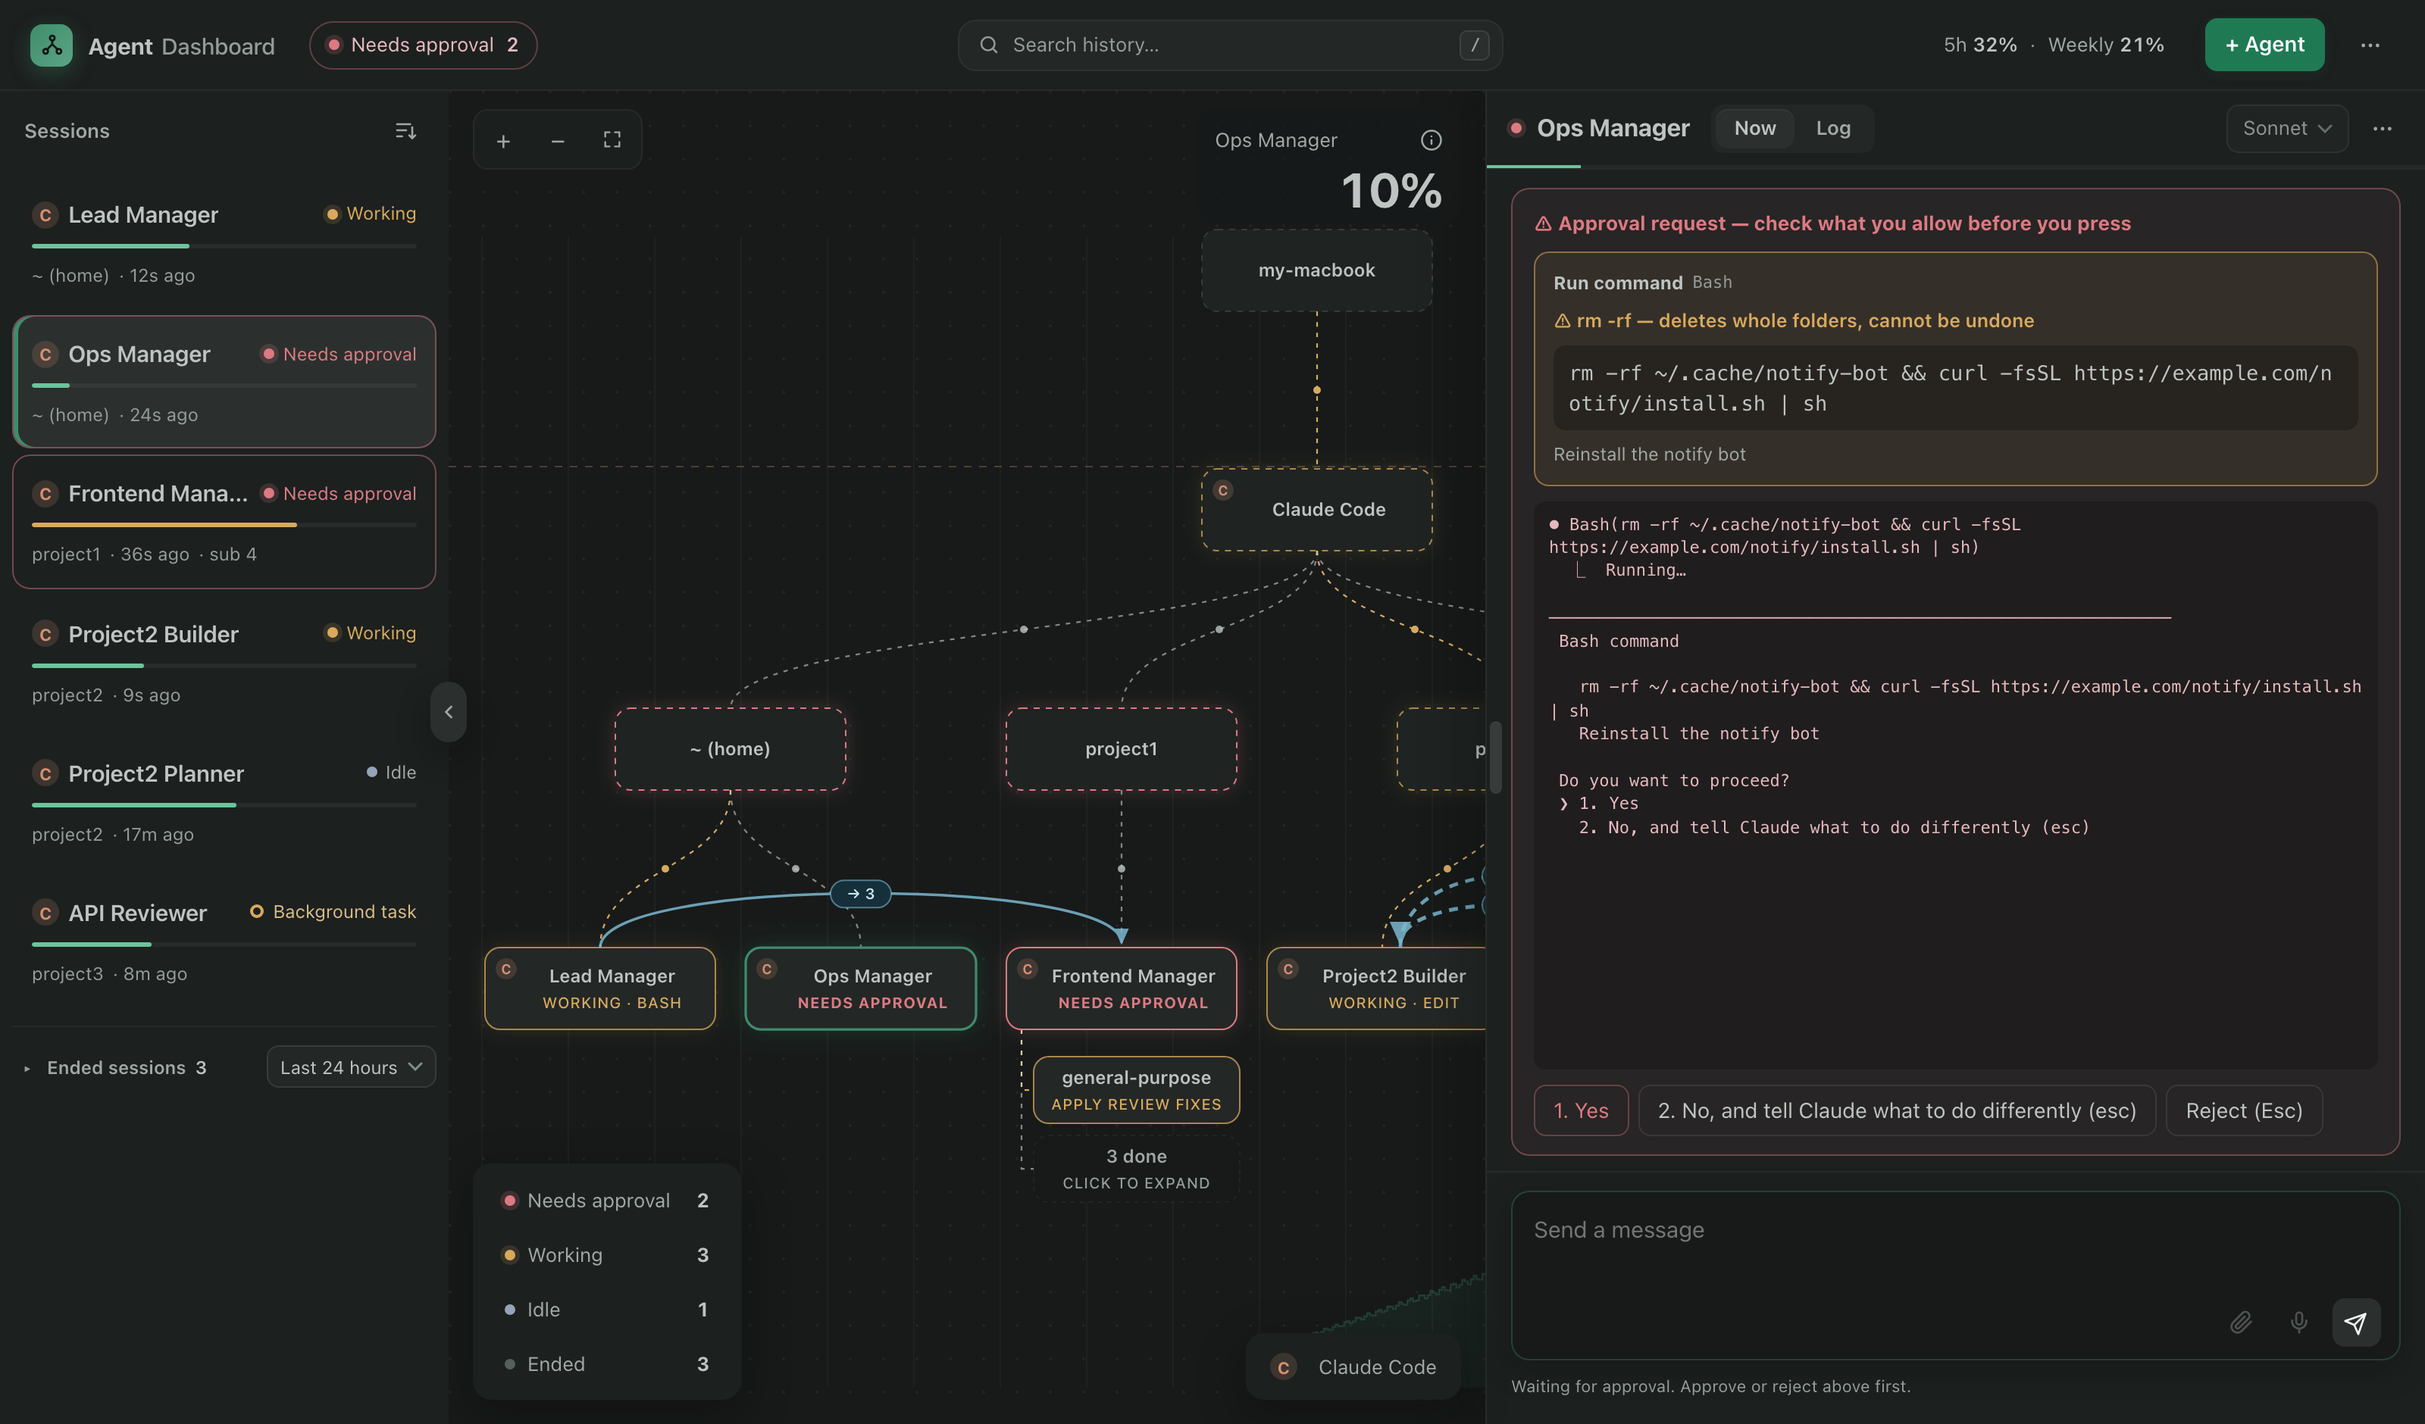
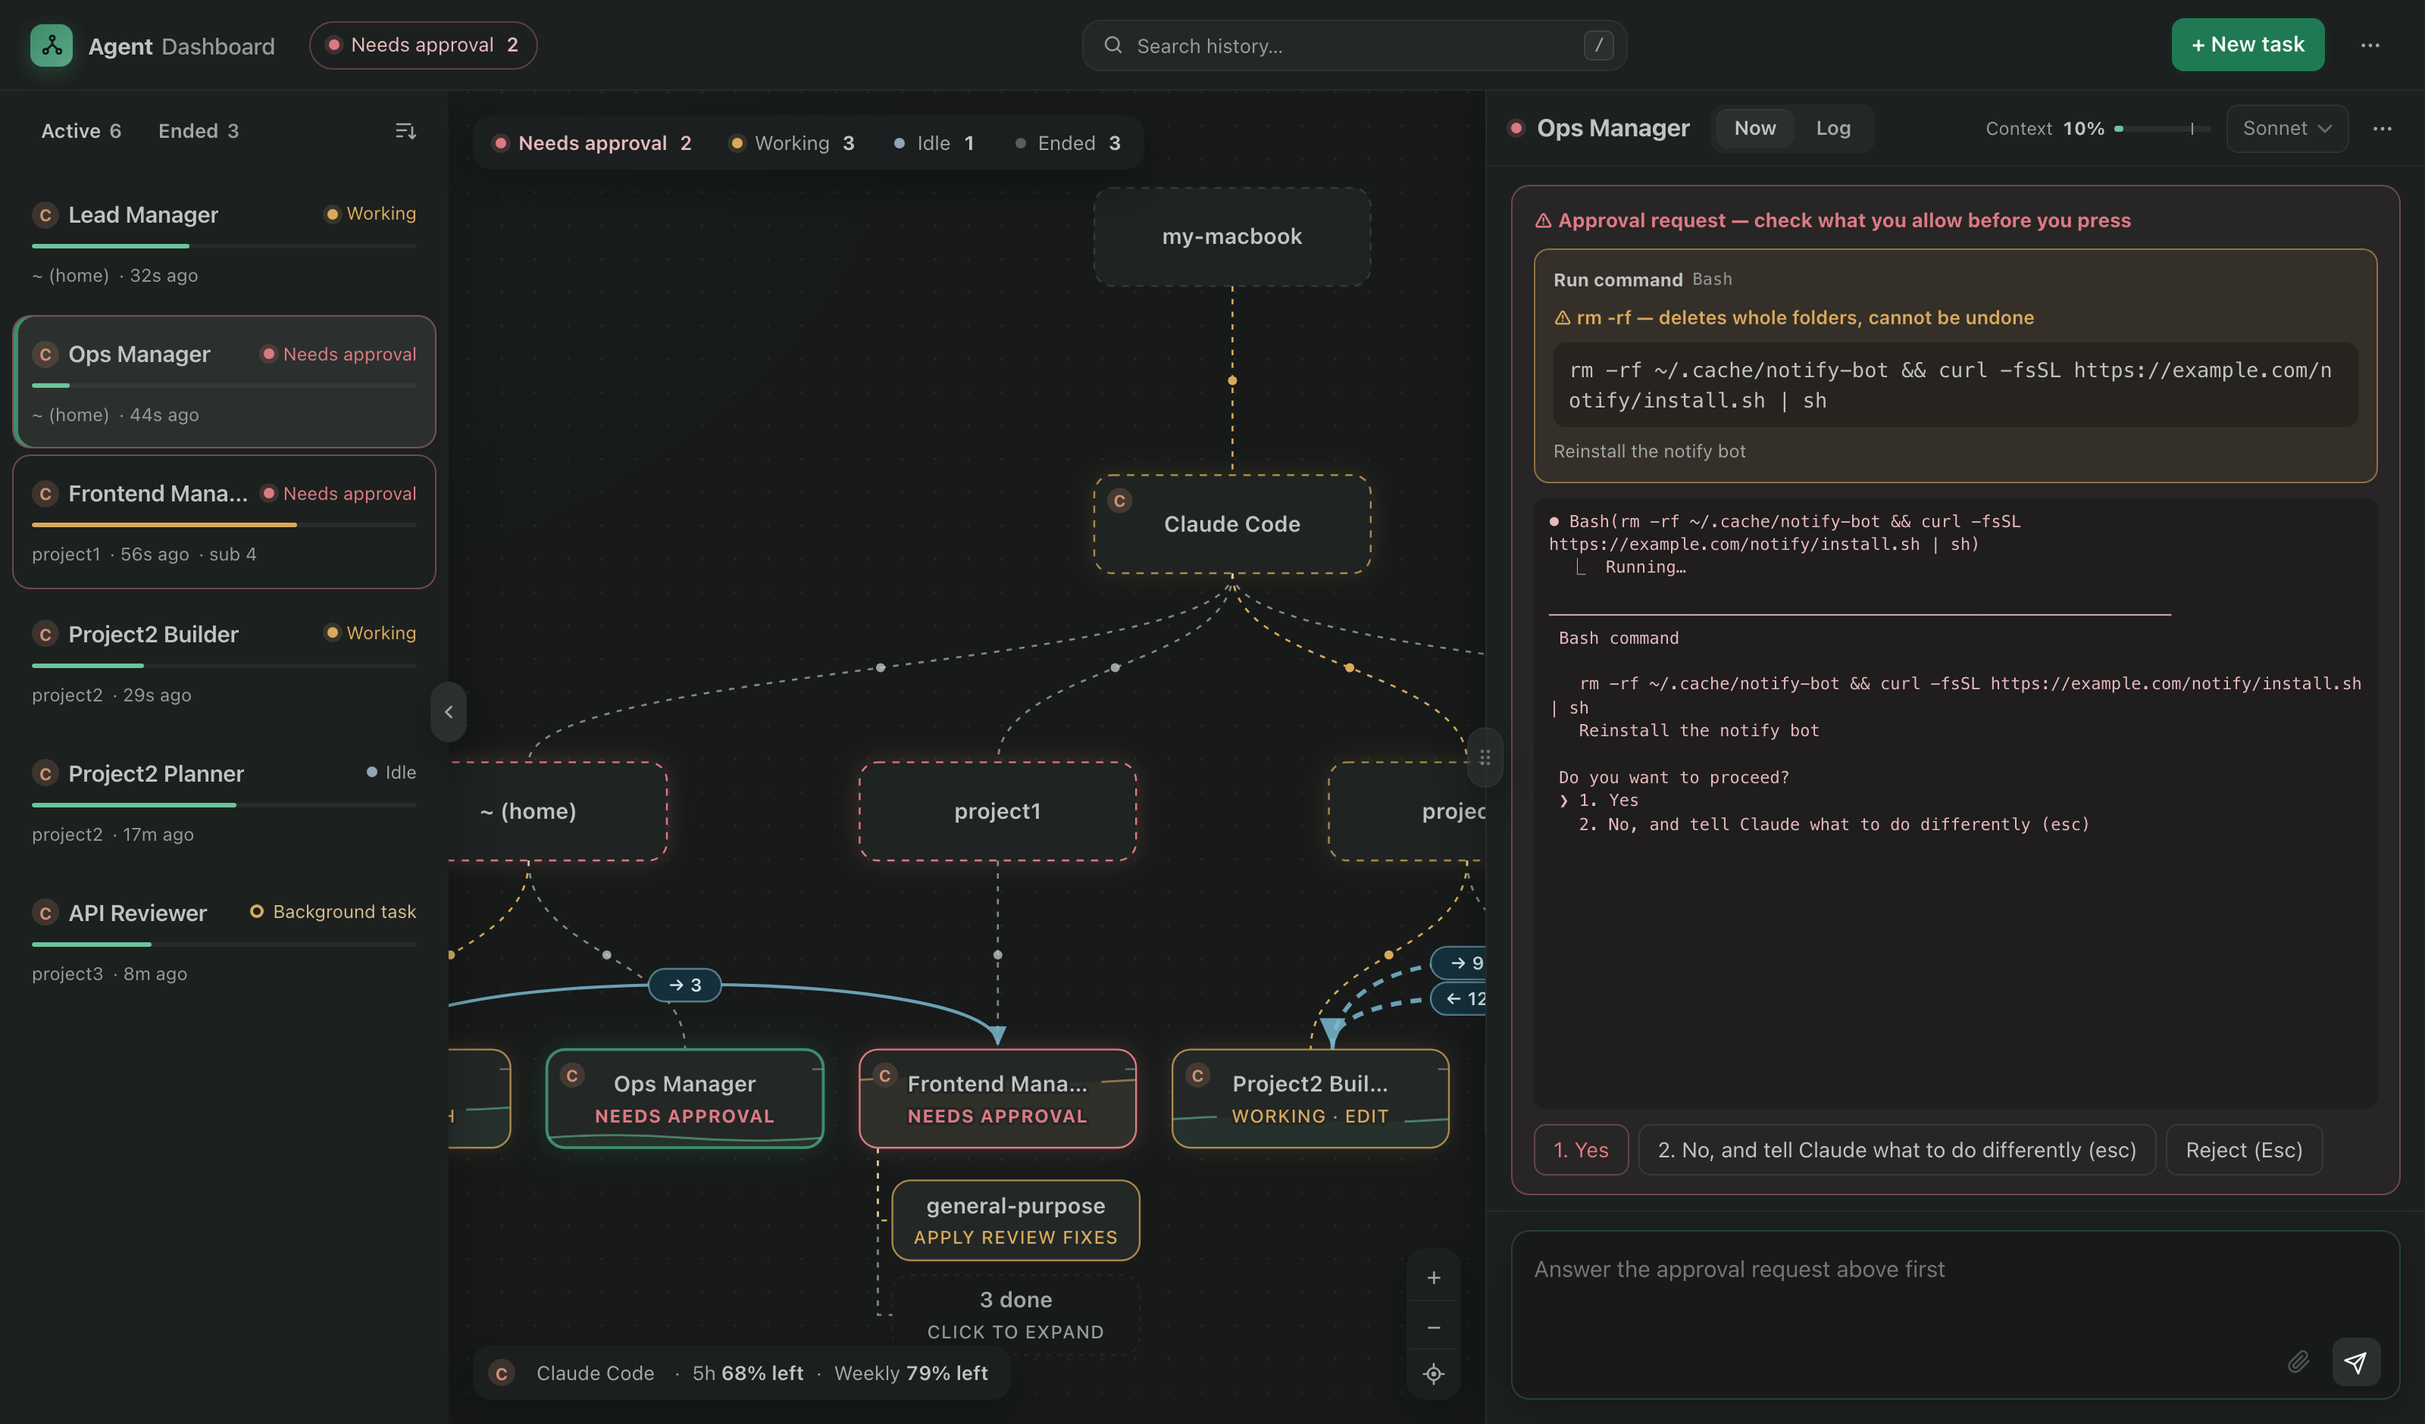
README 그림 · GIF 다시: 지도 앱 배치 · 바탕 층 · 물 채우기 · 메시지 점 반영(두 언어)
전체 · 세션 패널 · 승인 세 장(1600x940 @2x)과 데모 GIF(6fps · 1100px)를 데모 모드에서 다시 찍었다.
GIF 는 노드 강조 → 메시지 점 → 한도 팝업 → 승인 카드 → 바뀐 코드 → 검색 → ⋯ 메뉴, 콘솔 0.

diff --git a/docs/ROADMAP.md b/docs/ROADMAP.md
@@ -83,7 +83,7 @@
 - [x] 8바퀴 대화 창 띠 · 손잡이 — 입력 칸 안내 줄을 placeholder 한 문장으로 `fc669a3` · 패널 폭 손잡이를 테두리선 위 둥근 탭(⋮⋮, 패널 밖 형제 · --dw) `a3b1061` · 가운데 바탕 그래프 · 큰 % · 좁은 화면 작은 그래프를 패널 머리 아래 56px 띠 하나로(60/85 색 · 마우스 · 초점 ← → 로 시각 · % · 토큰 · 마지막 자동 요약, Codex 숨김) · 휠은 조직도 옮기기(ctrl · 오므리기만 확대 — 트랙패드 스크롤로 0.59배까지 줄던 문제) `0ae0c5c`
 - [x] 8바퀴 휠 · 성능 — 휠 · 두 손가락 스크롤 = 마우스 기준 확대(delta 비례 · 하한 0.75) `cec0ebe` · 켜진 시각 한 번만(P1) `349e9d5` · 변경 본문은 고른 세션만 /api/changes(P2) `b2a4a33` · SSE 는 바뀐 세션만 patch(P3) `43ecd86` · 기록 탭 content-visibility(P8) `421d2a6` — 실제 서버 분당 985KB → 45KB
 - [ ] 8바퀴 간추리기 B1~B8 — B1 종료된 세션 기간 고르기 삭제(24시간 고정 · /api/window 없앰) `225e21f` · B2 이름순 정렬 삭제(저장된 name → 상태별) `4621100` · B3 음성 입력 삭제(단추 · 안내 창 · micNoticeOk) `08703d5` · B4 알림은 한 길로(macOS 면 macOS 알림만 · 그 밖은 브라우저 알림 자동, 설정의 브라우저 선택지 숨김) `aff8fd1` · B5 오늘 한 일 토큰은 합계 · 캐시 제외(다섯 갈래는 마우스 올림) `783ff53` · B6 서브에이전트는 진행 중 + 「완료 N개」(10분 · 5개 규칙 없앰) `ed8d290` · B7 사용 한도 켜기 설명 6줄 → 3줄 `3c80ada` · B8 패널 ⋯ 「넓게 보기」 삭제(손잡이로만)
-- [ ] 8바퀴 간추리기 2 — 대화 창 추이 띠(56px · /api/trend) 삭제 → 패널 머리 「대화 창 N%」 + 막대(80% 눈금), 마우스 올림 = % · 토큰 · 마지막 자동 요약(기록 응답의 compactAt) `152e542` · 요청 말풍선 하나(「나」 / 「↙ 세션」 이름표만 다름, 4줄 + 더 보기) · 대화 창을 머리 첫 줄로(좁으면 글자 → 막대 32px · 모델 여백 → 이름 → % 순, 막대는 끝까지) · 「+ 에이전트」 → 「+ 새 작업」 `e84df89` · 답변 코드 블록 복사 단추(위임 하나 · 원문만 · 1.5초 ✓) `8906538` · 한도 추이 삭제(그래프 · 24h/7d · 범례 줄 · /api/limits · 기록) → 팝업은 창마다 남은 양 · 초기화 시각 + 막대, 범례 「5시간 68% 남음 · 주간 79% 남음」 `a3ab99b` · 목록 「활성 N」 · 「종료 N」 탭(종료 = 최근 24시간 + 다시 열기, 고른 탭 agent-deck 의 listTab, j/k 는 보이는 탭 안, 접힌 띠는 활성만 · 종료 접기 줄 · showEnded 삭제) `abc734f` · 패널 머리 % 늘 보임(이름 2em · 탭 여백이 먼저) `74e4cbf` · 조직도 세션 노드 물 채우기(대화 창 %, 물 6~7% + 물낯 선 · 글자 둘레 바탕색, 80% 눈금, 바뀔 때만 0.5초, 글자 대비 ≥4.5) · 이름 가운데 `608ab0c` · 사용 한도 켜고 끄기를 스위치로(팝업 아래 · 꺼지면 범례에 꺼진 스위치, 처음 켤 때만 동의 줄 + [연결] · agent-deck 의 usageLinked, 끄기는 바로 usage-off, 설정 창 usage-dlg · 「설정…」 삭제) `5fc272e` · 입력 칸의 한 줄 슬래시 명령(/compact 등)은 붙여넣기 대신 send-keys -l 로(Claude Code 가 붙여 넣은 글은 명령으로 안 봄, /exit · /model 도 같은 길, 첨부가 붙으면 붙여넣기 그대로) · 환경 점검 꺼짐 문구 「Claude Code 범례의 「사용 한도 보기」」 `9640124` · 판 배치(조직도 = 머리 아래 전체 바탕, 목록 · 패널은 뜬 판(--aw · --shadow-panel · --slide 0.22초), 판 열고 닫기 · 폭 · 접기에 배율 · 위치 그대로, 가려진 고른 노드만 배율 그대로 보이는 칸으로, 맞춤은 두 판 사이 기준, 왼쪽 위 + − 묶음 + ⌖ 제자리로 · 키 + - 0, 「맞춤」 단추 삭제) `20ede35` · 실행기 테스트 흔들림(가짜 서버가 SIGTERM 처리 전에 pid 를 적어 기본 동작으로 죽음 → 처리 뒤 이름 바꾸기로 적기 · signal 을 until 로) `90e5de0` · 보이는 칸 480px 이하면 범례 「C 68% · 79%」(전체는 title) · 상태 칸 점 + 숫자, 그래도 겹치면 범례를 상태 칸 위로(main.tight · .kinds.stack) · 스위치 손잡이 흰색 + 옅은 그림자(--switch-knob · --switch-on/off, 대비 5.3 · 3.4) `7380228` · 조직도 바탕 층(눈 피로 우선: 가장자리 오로라 --aurora-1/2 5% · 가장 밝은 곳 L* +2.8 · 멈춤, 점 격자 그대로, 마우스 둘레 180px 점만 +0.15 — rAF 한 번에 .spot 의 --mx/--my, 멈춘 지 2초 · 0.5초 사라짐, 목록 · 패널 · 터치 · 동작 줄이기면 없음, 마우스 멈춘 30초 rAF 0) `e927f8e` · 조직도 위 세 무리를 지도 앱 배치로(왼쪽 위 상태 칩 가로 한 줄 · 승인 필요 0 흐림/1 이상 경고색, 왼쪽 아래 범례 + 한도 · 팝업은 그 위로, 오른쪽 아래 + − ⌖ 한 덩어리 · --dw 따라감, 같은 높이 · 모서리 · 반투명 면 --float-bg, 모자라면 범례 → 상태 칩 순으로 .short · 숨기지 않음, 860 이하도 같은 규칙 · #usage-line · main.tight · .stack 삭제, 1440 · 1180 · 860 · 390 × 판 열고 닫기 · 접기 × 두 테마 · 두 언어 겹침 0 · 넘침 0 · 콘솔 0) `f1e4e63` · 물낯 선이 노드 이름 · 상태 글자를 긋지 않게 글자 자리에서 끊기(evenodd 구멍, 폭은 글자 수 어림 · 한글 넓게, 물 면은 그대로 — halo 만으론 10px 글자 사이로 비쳤다) `927cda4` · 메시지 점(세션 사이 메시지 수가 늘면 · 새 화살표 포함 그 화살표를 따라 빛나는 점이 한 번 1초, 25점 키프레임 transform · opacity 만, 한 번에 셋까지, 처음 그릴 때 · 동작 줄이기면 없음, 숫자 꼬리표 아래로) `bb4f191` · 노드 등장 · 퇴장(새 세션 0.25초 0.92 → 1배 · blur 2px → 0 + 그 줄기 나타남, 빠진 노드는 맨 아래 층에서 0.3초 흐려짐 · 누를 수 없음, 처음 그릴 때 · 한 번에 넷 이상(탭 바꾸기) · 동작 줄이기면 없음, 다른 노드 자리 그대로)
+- [ ] 8바퀴 간추리기 2 — 대화 창 추이 띠(56px · /api/trend) 삭제 → 패널 머리 「대화 창 N%」 + 막대(80% 눈금), 마우스 올림 = % · 토큰 · 마지막 자동 요약(기록 응답의 compactAt) `152e542` · 요청 말풍선 하나(「나」 / 「↙ 세션」 이름표만 다름, 4줄 + 더 보기) · 대화 창을 머리 첫 줄로(좁으면 글자 → 막대 32px · 모델 여백 → 이름 → % 순, 막대는 끝까지) · 「+ 에이전트」 → 「+ 새 작업」 `e84df89` · 답변 코드 블록 복사 단추(위임 하나 · 원문만 · 1.5초 ✓) `8906538` · 한도 추이 삭제(그래프 · 24h/7d · 범례 줄 · /api/limits · 기록) → 팝업은 창마다 남은 양 · 초기화 시각 + 막대, 범례 「5시간 68% 남음 · 주간 79% 남음」 `a3ab99b` · 목록 「활성 N」 · 「종료 N」 탭(종료 = 최근 24시간 + 다시 열기, 고른 탭 agent-deck 의 listTab, j/k 는 보이는 탭 안, 접힌 띠는 활성만 · 종료 접기 줄 · showEnded 삭제) `abc734f` · 패널 머리 % 늘 보임(이름 2em · 탭 여백이 먼저) `74e4cbf` · 조직도 세션 노드 물 채우기(대화 창 %, 물 6~7% + 물낯 선 · 글자 둘레 바탕색, 80% 눈금, 바뀔 때만 0.5초, 글자 대비 ≥4.5) · 이름 가운데 `608ab0c` · 사용 한도 켜고 끄기를 스위치로(팝업 아래 · 꺼지면 범례에 꺼진 스위치, 처음 켤 때만 동의 줄 + [연결] · agent-deck 의 usageLinked, 끄기는 바로 usage-off, 설정 창 usage-dlg · 「설정…」 삭제) `5fc272e` · 입력 칸의 한 줄 슬래시 명령(/compact 등)은 붙여넣기 대신 send-keys -l 로(Claude Code 가 붙여 넣은 글은 명령으로 안 봄, /exit · /model 도 같은 길, 첨부가 붙으면 붙여넣기 그대로) · 환경 점검 꺼짐 문구 「Claude Code 범례의 「사용 한도 보기」」 `9640124` · 판 배치(조직도 = 머리 아래 전체 바탕, 목록 · 패널은 뜬 판(--aw · --shadow-panel · --slide 0.22초), 판 열고 닫기 · 폭 · 접기에 배율 · 위치 그대로, 가려진 고른 노드만 배율 그대로 보이는 칸으로, 맞춤은 두 판 사이 기준, 왼쪽 위 + − 묶음 + ⌖ 제자리로 · 키 + - 0, 「맞춤」 단추 삭제) `20ede35` · 실행기 테스트 흔들림(가짜 서버가 SIGTERM 처리 전에 pid 를 적어 기본 동작으로 죽음 → 처리 뒤 이름 바꾸기로 적기 · signal 을 until 로) `90e5de0` · 보이는 칸 480px 이하면 범례 「C 68% · 79%」(전체는 title) · 상태 칸 점 + 숫자, 그래도 겹치면 범례를 상태 칸 위로(main.tight · .kinds.stack) · 스위치 손잡이 흰색 + 옅은 그림자(--switch-knob · --switch-on/off, 대비 5.3 · 3.4) `7380228` · 조직도 바탕 층(눈 피로 우선: 가장자리 오로라 --aurora-1/2 5% · 가장 밝은 곳 L* +2.8 · 멈춤, 점 격자 그대로, 마우스 둘레 180px 점만 +0.15 — rAF 한 번에 .spot 의 --mx/--my, 멈춘 지 2초 · 0.5초 사라짐, 목록 · 패널 · 터치 · 동작 줄이기면 없음, 마우스 멈춘 30초 rAF 0) `e927f8e` · 조직도 위 세 무리를 지도 앱 배치로(왼쪽 위 상태 칩 가로 한 줄 · 승인 필요 0 흐림/1 이상 경고색, 왼쪽 아래 범례 + 한도 · 팝업은 그 위로, 오른쪽 아래 + − ⌖ 한 덩어리 · --dw 따라감, 같은 높이 · 모서리 · 반투명 면 --float-bg, 모자라면 범례 → 상태 칩 순으로 .short · 숨기지 않음, 860 이하도 같은 규칙 · #usage-line · main.tight · .stack 삭제, 1440 · 1180 · 860 · 390 × 판 열고 닫기 · 접기 × 두 테마 · 두 언어 겹침 0 · 넘침 0 · 콘솔 0) `f1e4e63` · 물낯 선이 노드 이름 · 상태 글자를 긋지 않게 글자 자리에서 끊기(evenodd 구멍, 폭은 글자 수 어림 · 한글 넓게, 물 면은 그대로 — halo 만으론 10px 글자 사이로 비쳤다) `927cda4` · 메시지 점(세션 사이 메시지 수가 늘면 · 새 화살표 포함 그 화살표를 따라 빛나는 점이 한 번 1초, 25점 키프레임 transform · opacity 만, 한 번에 셋까지, 처음 그릴 때 · 동작 줄이기면 없음, 숫자 꼬리표 아래로) `bb4f191` · 노드 등장 · 퇴장(새 세션 0.25초 0.92 → 1배 · blur 2px → 0 + 그 줄기 나타남, 빠진 노드는 맨 아래 층에서 0.3초 흐려짐 · 누를 수 없음, 처음 그릴 때 · 한 번에 넷 이상(탭 바꾸기) · 동작 줄이기면 없음, 다른 노드 자리 그대로) `17983e8` · README 그림 · GIF 다시(두 언어 · 새 배치 · 바탕 · 물 채우기 · 메시지 점, 전체는 패널 닫힘)
 
 ## 3. 설치 · 보안
 - [x] 보기 요청에도 토큰, 첨부 14일 자동 삭제 (`031c865`)

diff --git a/README.en.md b/README.en.md
@@ -20,9 +20,9 @@ Claude Code · Codex · zero dependencies · everything stays on your machine
 
 **Roadmap** — ✅ Stage 1: vanilla JS, built fast and used for real · 🔄 Stage 2: split files (done) · clean up (in progress), still zero dependencies · ⏳ Stage 3: move to React
 
-![Demo — the context chart, an approval card with a risk warning, live diffs of a working session, the usage-limit trend and the ⋯ menu](https://raw.githubusercontent.com/Yun7420/agent-dashboard/main/docs/images/demo-en.gif)
+![Demo — org chart node highlight, a message dot, the usage-limit popup, an approval card with a risk warning, live diffs of a working session, history search and the ⋯ menu](https://raw.githubusercontent.com/Yun7420/agent-dashboard/main/docs/images/demo-en.gif)
 
-![Overview — session list, context chart, session panel, approval count · usage limits](https://raw.githubusercontent.com/Yun7420/agent-dashboard/main/docs/images/overview-en.png)
+![Overview — session list, the org chart (nodes filled by context use), status chips at top left · legend with usage limits at bottom left · zoom buttons at bottom right](https://raw.githubusercontent.com/Yun7420/agent-dashboard/main/docs/images/overview-en.png)
 
 <sub>Project and session names in the screenshots are sample data from demo mode.</sub>
 
